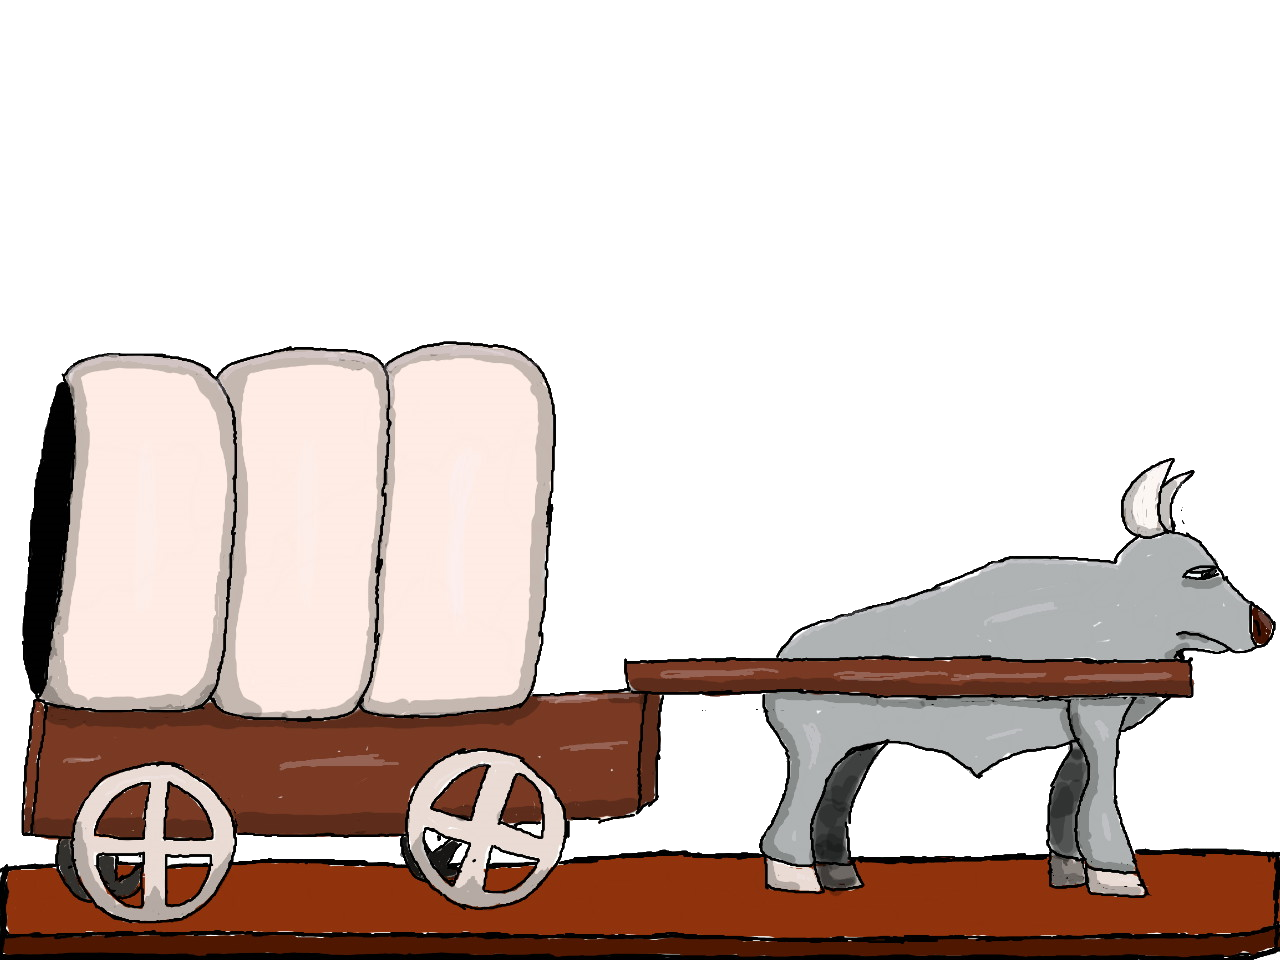
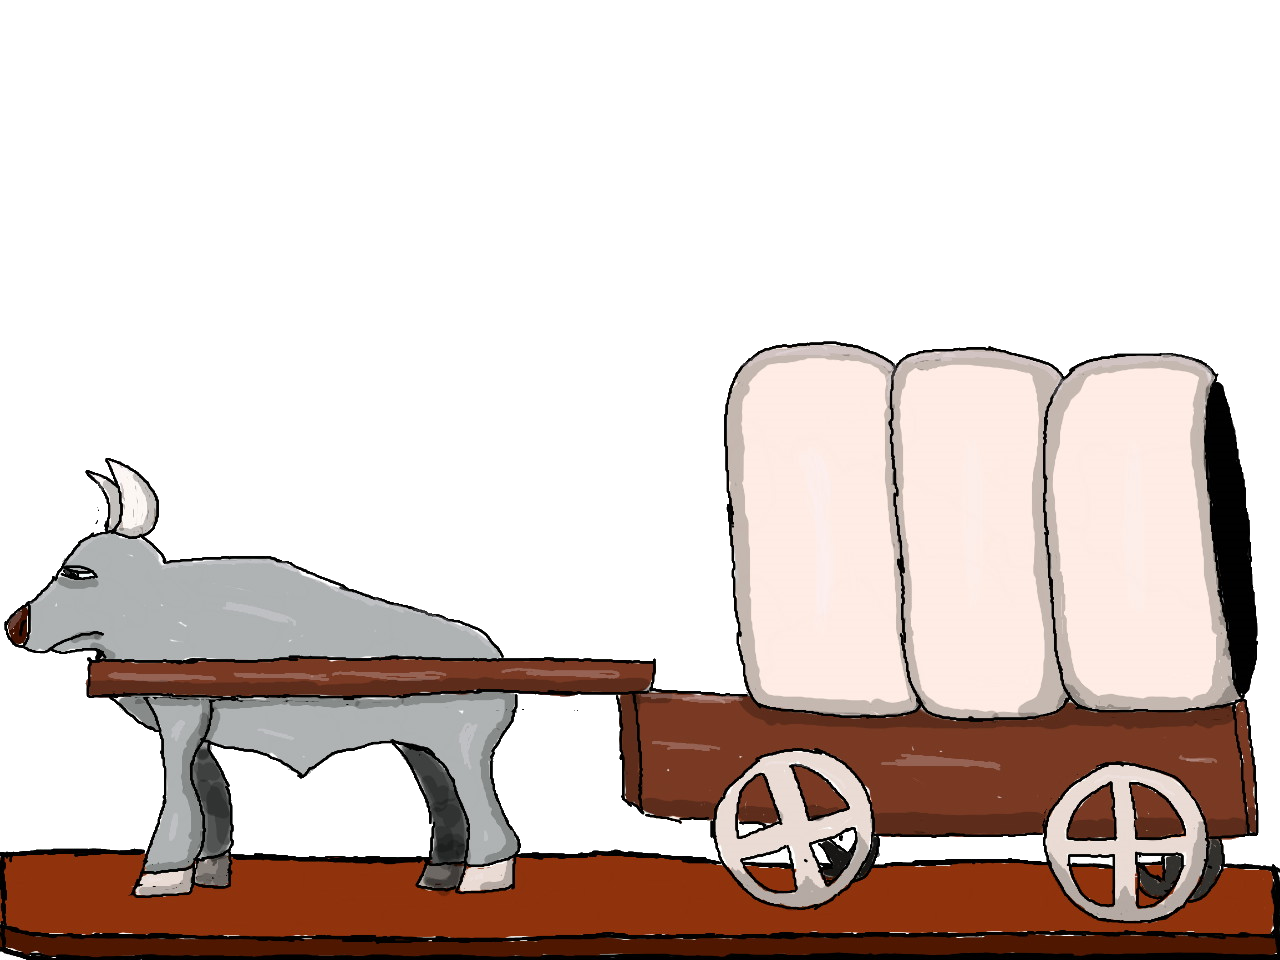
flipped river cross

diff --git a/game2.js b/game2.js
@@ -220,7 +220,7 @@ function ford(){
 		prevLocation = currLocation;
 		currLocation = "";
         var t = "<img src='image/Ford.JPG' id='bkg' style = 'position:absolute; width:100%; height:100%;' alt='Mountain View'>\
-        <img src='image/Cross.png' id='ok' style = 'position:absolute; width: 180px; length: 300px; bottom:20px; right: 85%;' alt='Mountain View'>";
+        <img src='image/Cross.png' id='ok' style = 'position:absolute; width: 180px; length: 300px; bottom:20px; left: 80%;' alt='Mountain View'>";
         document.getElementsByClassName("container")[0].innerHTML = t;
         var death = 10;
 		var cross;
@@ -235,12 +235,12 @@ function ford(){
             if(death < cross){
 				if(Math.floor(Math.random()*2) == 0) msg = "You made it across perfectly fine!";
 				else {msg = "Your supplies got wet. Lose 1 day."; day++; changeWeather(); eatFood();}
-                $("#ok").animate({right: '10%'},10000,function(){alert(msg); tempTraveled++; totalTraveled++; mainGame();});
+                $("#ok").animate({left: '10%'},10000,function(){alert(msg); tempTraveled++; totalTraveled++; mainGame();});
             }
 			else{
 				msg = "You were unable to ford the river! " + riverLoss();
-                $("#ok").animate({right: '600px'},5000,function(){$("#ok").attr("src", "image/Capsize.png"); tempTraveled++; totalTraveled++; alert(msg);});//add who dies and what supplies are lost here
-                $("#ok").delay(3000).animate({right: '10%'},10000,function(){mainGame();});
+                $("#ok").animate({left: '600px'},5000,function(){$("#ok").attr("src", "image/Capsize.png"); tempTraveled++; totalTraveled++; alert(msg);});//add who dies and what supplies are lost here
+                $("#ok").delay(3000).animate({left: '10%'},10000,function(){mainGame();});
             }
         });
 		riverDepth = 0; riverWidth = 0; ferryWait = 0; riverChange = 2;
@@ -251,7 +251,7 @@ function floatWagon(){
 	prevLocation = currLocation;
 	currLocation = "";
         var t = "<img src='image/Ford.JPG' id='bkg' style = 'position:absolute; width:100%; height:100%;' alt='Mountain View'>\
-        <img src='image/Cross.png' id='ok' style = 'position:absolute; width: 180px; length: 300px; bottom:20px; right: 85%;' alt='Mountain View'>";
+        <img src='image/Cross.png' id='ok' style = 'position:absolute; width: 180px; length: 300px; bottom:20px; left: 80%;' alt='Mountain View'>";
         document.getElementsByClassName("container")[0].innerHTML = t;
         var death = 10;
 		var msg;
@@ -259,12 +259,12 @@ function floatWagon(){
 			death = (Math.floor(Math.random()*10));
             if(death < 6){
 				msg = "You made it across perfectly fine!";
-                $("#ok").animate({right: '10%'},10000,function(){alert(msg); tempTraveled++; totalTraveled++; mainGame();});
+                $("#ok").animate({left: '10%'},10000,function(){alert(msg); tempTraveled++; totalTraveled++; mainGame();});
             }
 			else{
 				msg = "Your wagon tipped over! " + riverLoss();
-                $("#ok").animate({right: '600px'},5000,function(){$("#ok").attr("src", "image/Capsize.png"); tempTraveled++; totalTraveled++; alert(msg);});//add who dies and what supplies are lost here
-                $("#ok").delay(3000).animate({right: '10%'},10000,function(){mainGame();});
+                $("#ok").animate({left: '600px'},5000,function(){$("#ok").attr("src", "image/Capsize.png"); tempTraveled++; totalTraveled++; alert(msg);});//add who dies and what supplies are lost here
+                $("#ok").delay(3000).animate({left: '10%'},10000,function(){mainGame();});
             }
         });
 		riverDepth = 0; riverWidth = 0; ferryWait = 0; riverChange = 2;
@@ -510,9 +510,9 @@ function catchfish(){
 //Displays the animation for ferrying accross the river.
 function ferryAnimation(){
 	var t = "<img src='image/Ford.JPG' id='bkg' style = 'position:absolute; width:100%; height:100%;' alt='Mountain View'>\
-	<img src='image/Cross.png' id='ok' style = 'position:absolute; width: 180px; length: 300px; bottom:20px; right: 85%;' alt='Mountain View'>";
+	<img src='image/Cross.png' id='ok' style = 'position:absolute; width: 180px; length: 300px; bottom:20px; left: 80%;' alt='Mountain View'>";
 	document.getElementsByClassName("container")[0].innerHTML = t;
-    $(document).ready(function(){$("#ok").animate({right: '10%'},10000,function(){alert("The ferry takes you across the river safely."); mainGame();});});
+    $(document).ready(function(){$("#ok").animate({left: '10%'},10000,function(){alert("The ferry takes you across the river safely."); mainGame();});});
 }
 
 //Checks to see if you have enough money to ride the ferry, then increments the amount of days needed to wait. Also subtracts from food for each day
